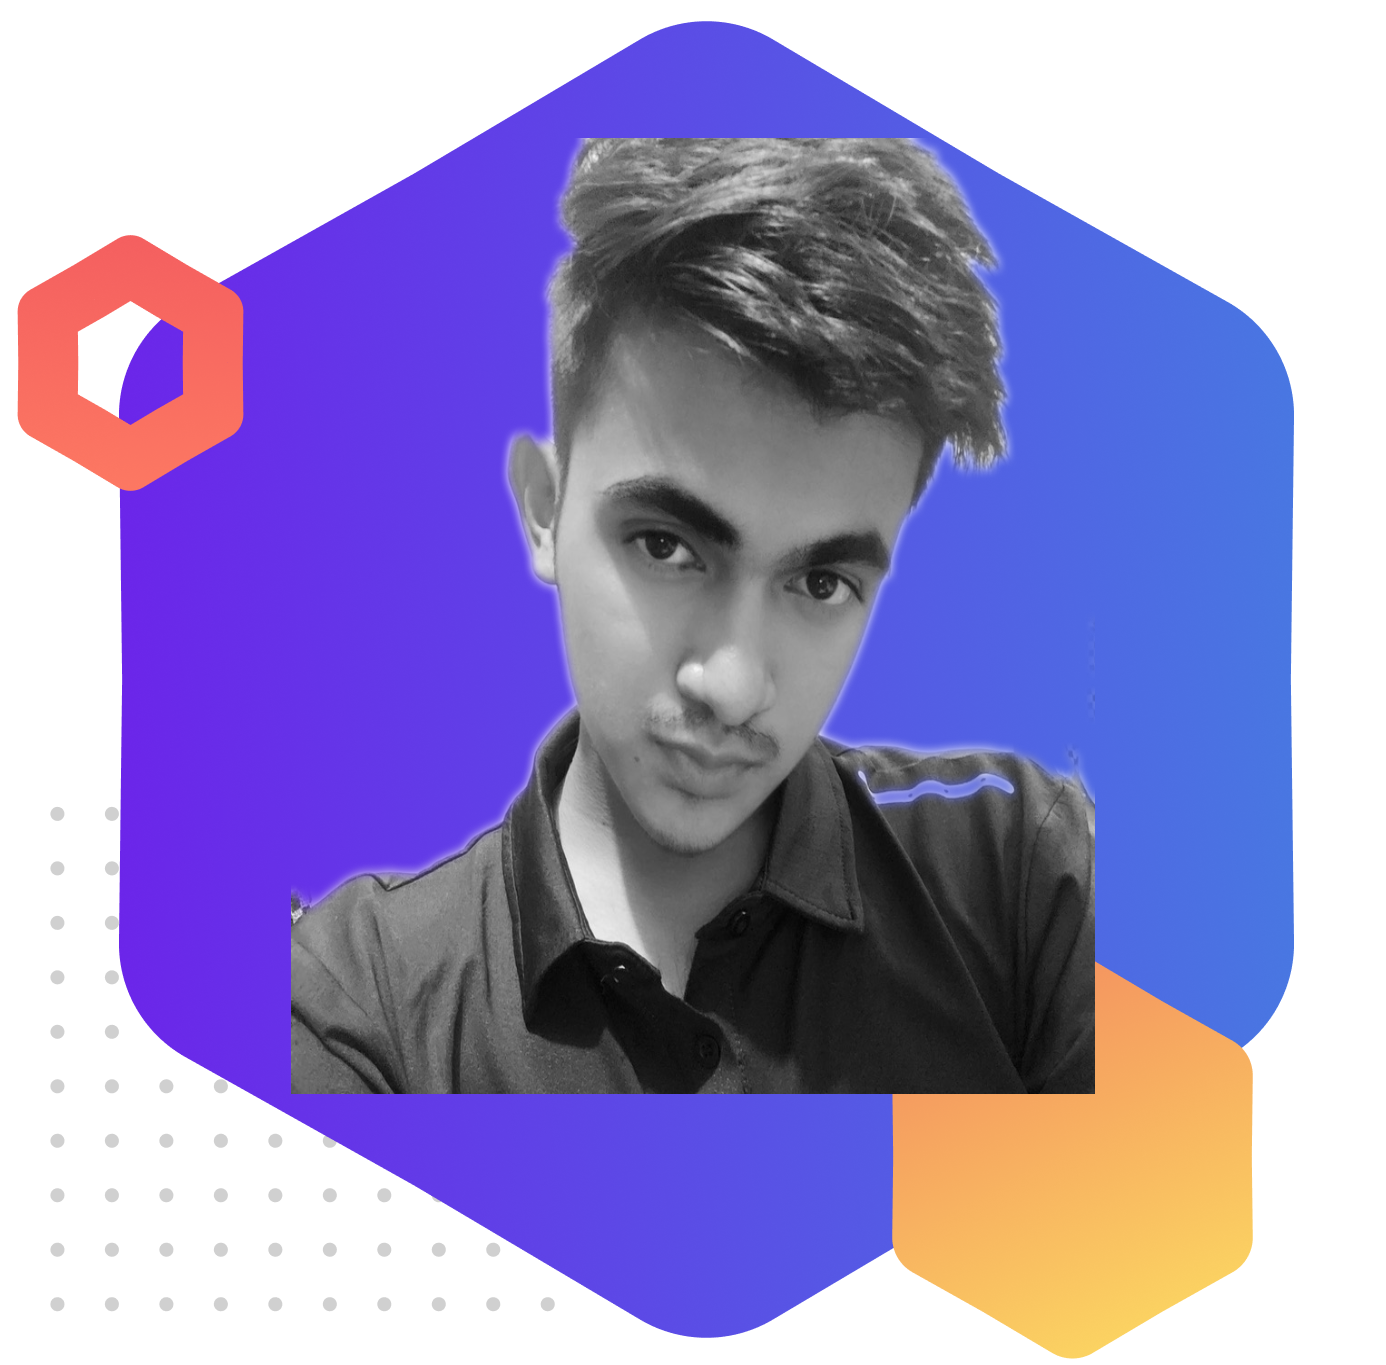
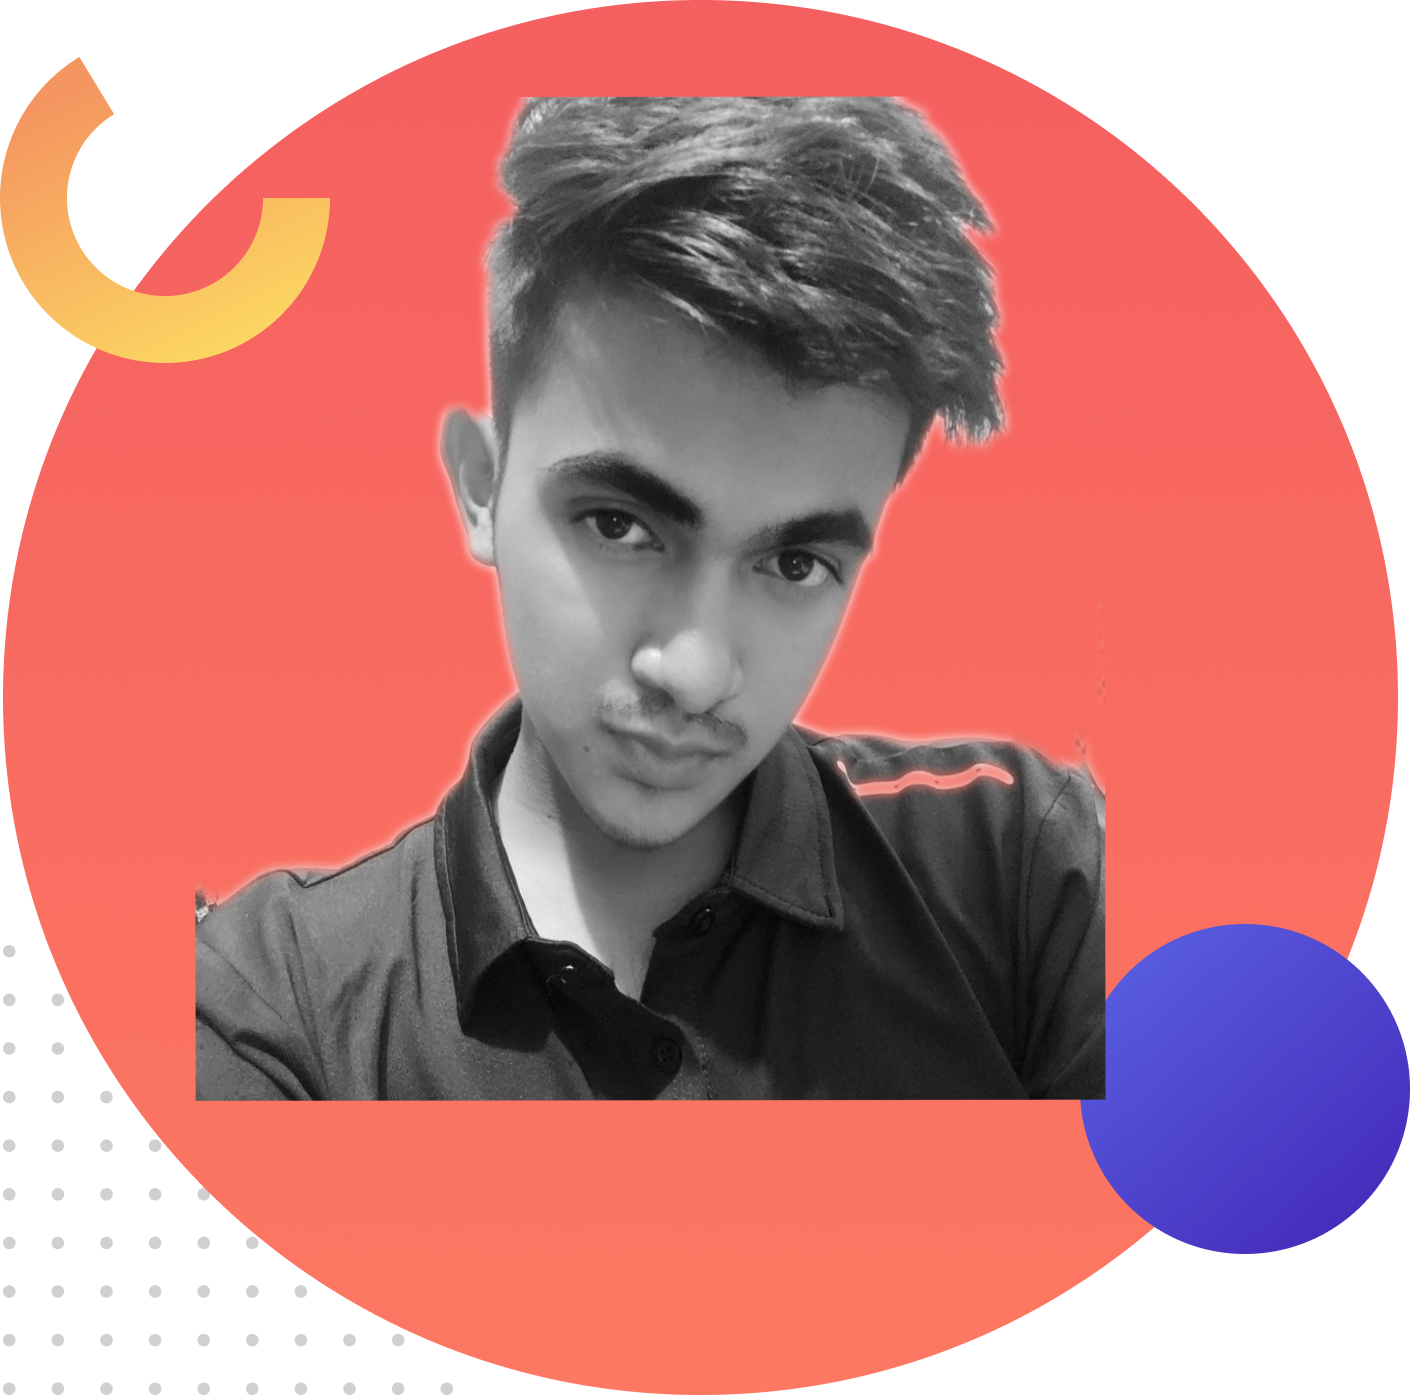
going to footer

diff --git a/index.html b/index.html
@@ -7,17 +7,59 @@
     <link rel="stylesheet" href="style.css">
 </head>
 <body>
-    <section class="sec1-style">
+    <section >
         <div class="div-style">
             <h1>HELLO, I'M</h1>
             <h1> <span class="orange-highlight">Al TAIYEB</span> </h1>
-            <p>
+            <p class="p-width">
                A full stack allaround designer that placerat in massa consectetur 
             </p>
             <a class="link-text" target="-blank" href="https://hireme.io/">Hire Me</a>
         </div>
         <div class="div-style">
             <img src="images/profile1.png" alt="">
+            </img>
+        </div>
+    </section>
+    <section>
+        <div class="div-style">
+            <img src="images/profile2.png" alt=""></img>
+        </div>
+        <div>
+          <h2>ABOUT</h2>
+          <p class="p-width">
+            Lorem Ipsum is simply dummy text of the printing and typesetting industry. Lorem Ipsum has been the industry's standard dummy text ever since the 1500s, when an unknown printer took a galley of type and scrambled it to make a type specimen book.
+          </p>
+          <p>
+            <a class="link-text" target="-blank" href="https://stylingcv.com/?utm_medium=adwords&utm_campaignid=1627117104&utm_adgroup=63381739338&utm_placement&utm_device=c&utm_keyword=resumebuild&gclid=CjwKCAiAudD_BRBXEiwAudakXyStADnegET1wLw9SYSiESMfT1LPm71zboteeEUvDBPXzp6Lv05-XBoCeDkQAvD_BwE">  ⬇ Download CV</a>
+        </p>     
+        </div>
+    </section>
+    <section>
+        <h2 id="alignment"><span class="orange-highlight">LASTET</span> WORKING PROJECT</h2>
+        <div class="div-style2 round-shape">
+            <img src="images/image 4.png" alt=""></img>
+            <h3>Powee-x-gym (gym website)</h3>
+            <p>Lorem Ipsum is simply dummy text of the printing and typesetting industry.
+            </p>
+        </div>
+        <div class="div-style2 round-shape">
+            <img src="images/image 5.png" alt=""></img>
+            <h3>Creative Agency</h3>
+            <p>Lorem Ipsum is simply dummy text of the printing and typesetting industry.</p>
+        </div>
+        <div class="div-style2 round-shape">
+            <img src="images/image 8.png" alt=""></img>
+            <h3>Hard Rock Music</h3>
+            <p>Lorem Ipsum is simply dummy text of the printing and typesetting industry.</p>
+        </div>
+    </section>
+    <section class="last-sec">       
+        <div > 
+            <h2 id="sec4-div1">WORK INQUIRY</h2>
+         </div>
+        <div >
+            <a class="link-text" target="-blank" href="https://meet.google.com/">Let's Chat</a>
         </div>
     </section>
     

diff --git a/style.css b/style.css
@@ -2,22 +2,58 @@
     color: orange;
 }
 h1{
-    font-size: 50px;
+    font-size: 40px;
 }
 .div-style{
     width: 40%;
     float: left;
     margin-left: 2%;
-    padding-bottom: 10px;
+    padding-bottom: 2%;
 }
 .div-style img{
-    width: 100%;
+    width: 80%;
 }
 .link-text{
     text-decoration: none;
     background-image: linear-gradient(45deg,lightsalmon, tomato);
     padding:10px 20px;
-    border-radius: 5px;
+    border-radius: 10px;
     color: white;
     font-weight: 700;
 }
+section{
+    height: 350px;
+    border: 1px solid ;
+    padding-bottom: 100px;
+}
+.p-width{
+    width: 80%;
+}
+#alignment{
+    text-align: center;
+}
+.div-style2{
+    width: 25%;
+    float: left;
+    padding-left: 5%;
+}
+.div-style2 img{
+    width: 100%;
+}
+.round-shape{
+    box-shadow: 5px 5px  2px gray;
+    border-radius: 10px;
+}
+.last-sec{
+    background-image: url(images/Group_33094_1.png);
+   background-size:65%;
+   background-repeat: no-repeat;
+   background-position: center;
+}
+.div-style3{
+    width: 30%;
+    float: left;
+    margin-left: 350px;
+    
+}
+
